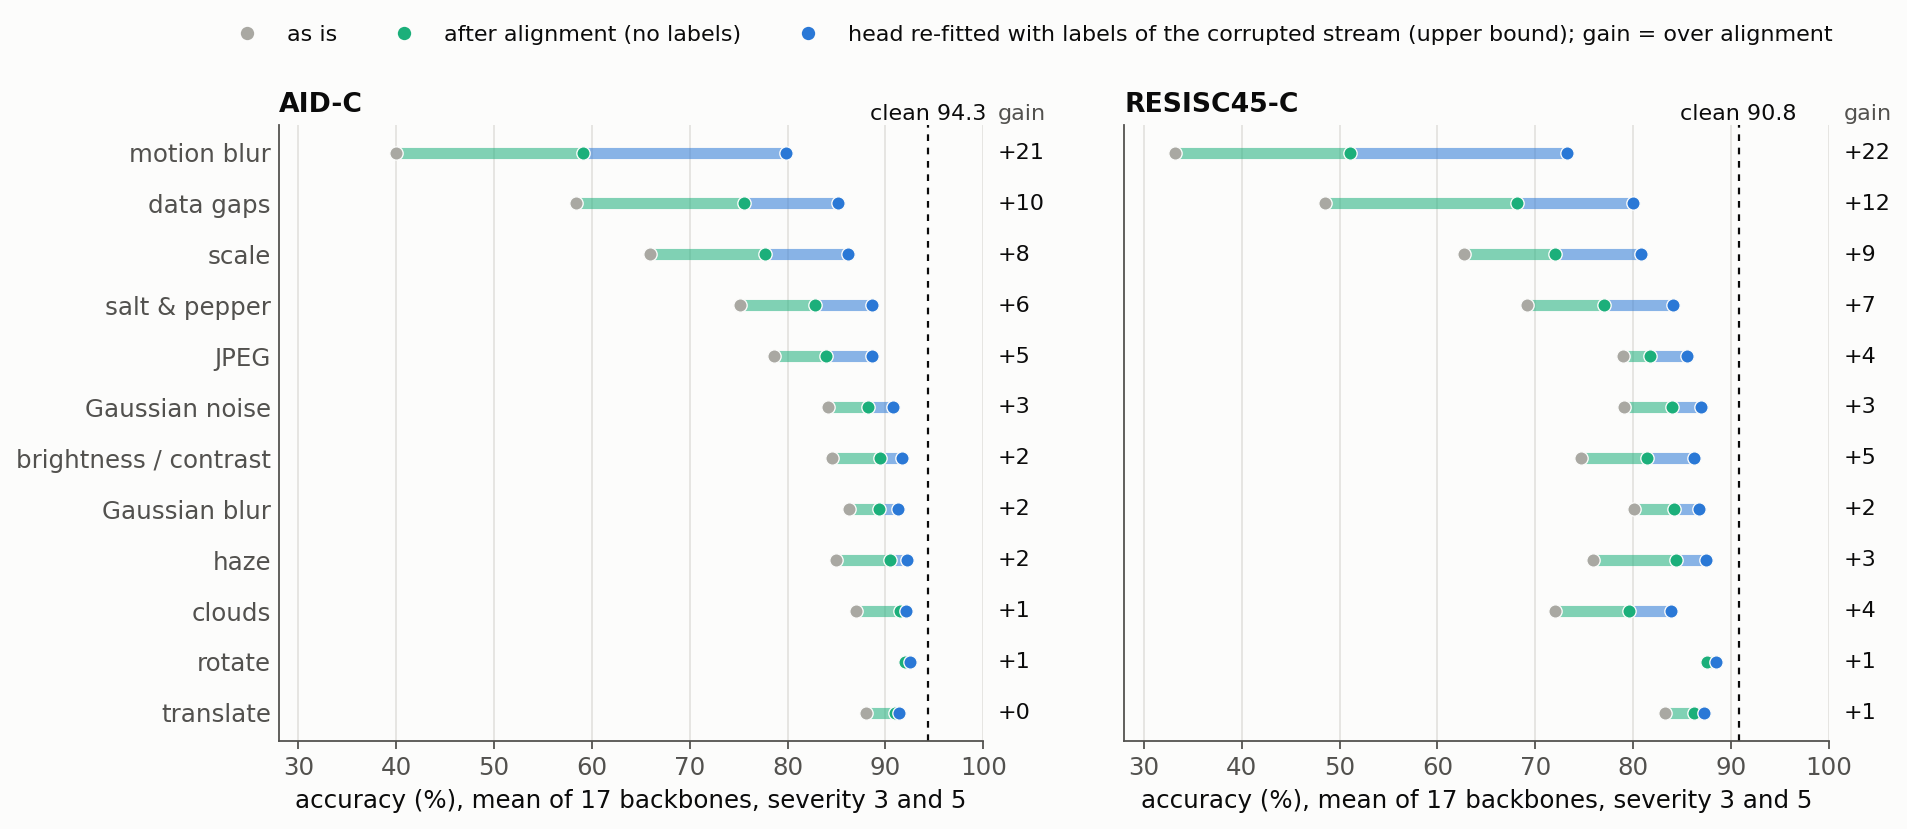
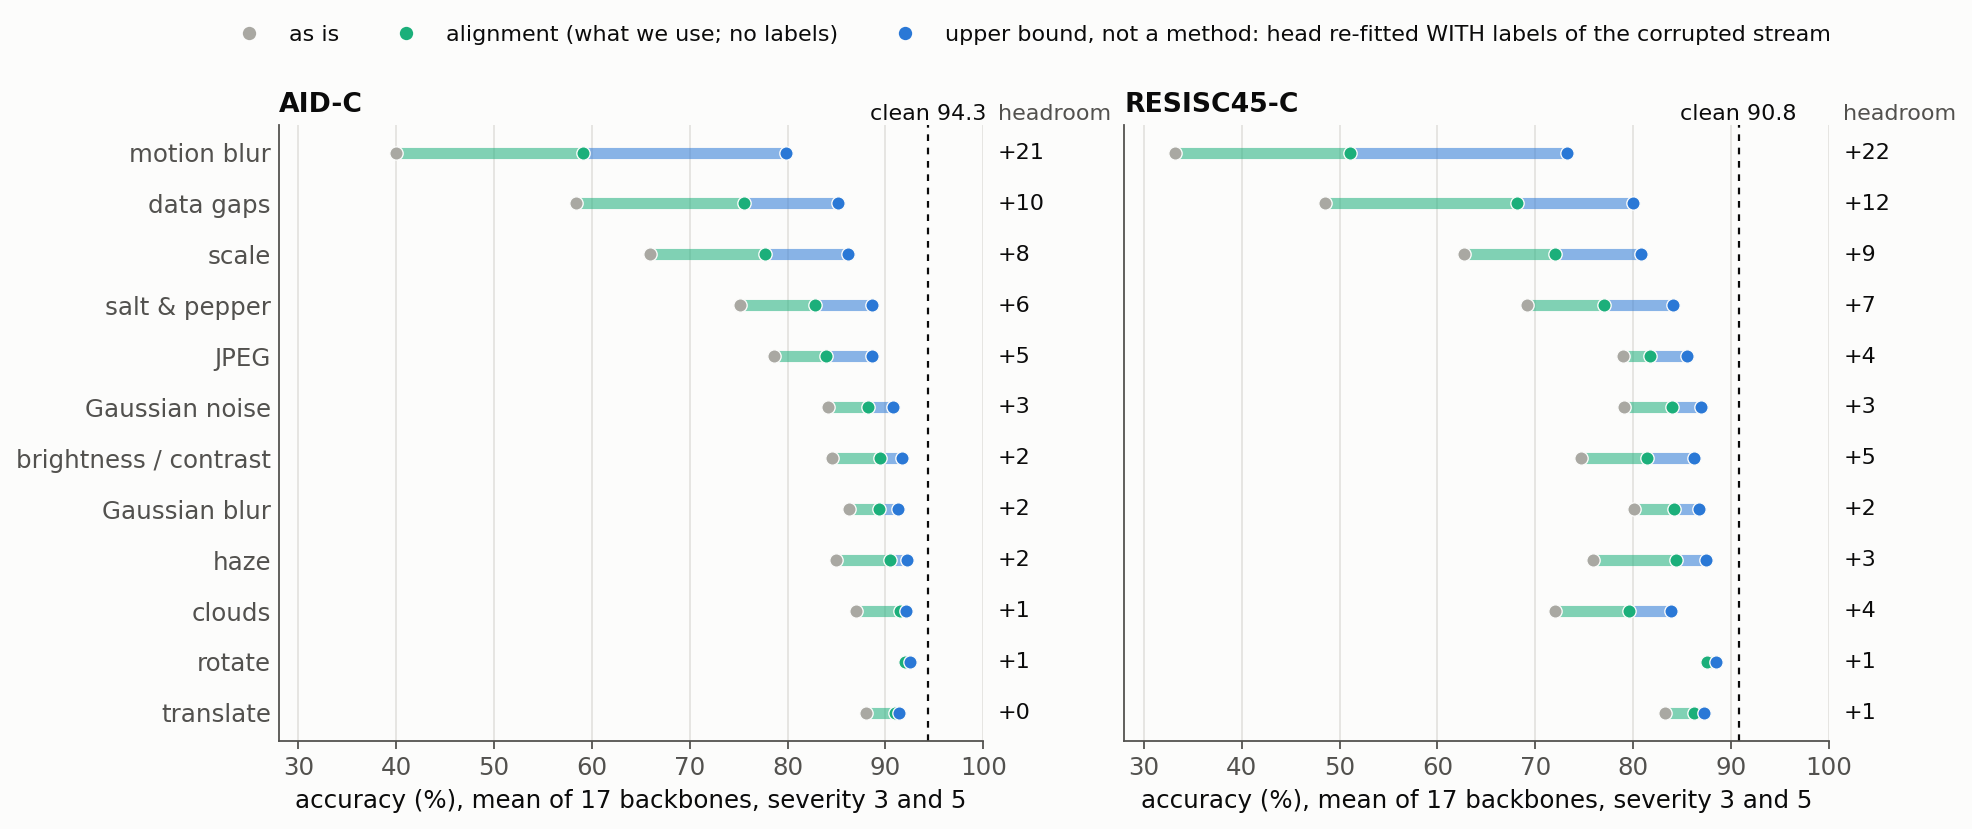
Mid-term figures: alignment explainer (fig10), clearer legend for the headroom figure

diff --git a/repro/scripts/analysis/plot_midterm_figs.py b/repro/scripts/analysis/plot_midterm_figs.py
@@ -9,6 +9,7 @@
   fig7_blur_aug.png       : drop under Gaussian blur, backbones with / without blur augmentation (T7)
   fig8_corruptions.png    : one AID image under the 12 REOBench corruptions, grouped by acquisition stage (T6)
   fig9_seg.png            : Potsdam mIoU per corruption for none / BN / input / input + BN alignment (T5)
+  fig10_alignment.png     : what head-input alignment does: pipeline, one feature channel, prediction share per class
 Labels are in English (no Korean font on the server). Colours: dataviz reference palette, light surface.
 
   /opt/conda/envs/segtta/bin/python scripts/analysis/plot_midterm_figs.py [--only fig1 fig5 ...]     # from repro/
@@ -183,13 +184,13 @@ def fig5():
             ax.scatter([ft], [y], s=36, color=BLUE, edgecolors=SURF, linewidths=0.6, zorder=3)
             ax.text(101.5, y, f"+{ft - al:.0f}", va="center", ha="left", fontsize=10, color=INK, clip_on=False)
         ax.axvline(clean, color=INK, lw=1, ls=(0, (3, 3))); ax.text(clean, len(order) - 0.35, f"clean {clean:.1f}", ha="center", fontsize=10)
-        ax.text(101.5, len(order) - 0.35, "gain", ha="left", fontsize=10, color=INK2, clip_on=False)
+        ax.text(101.5, len(order) - 0.35, "headroom", ha="left", fontsize=10, color=INK2, clip_on=False)
         ax.set_yticks(range(len(order))); ax.set_yticklabels([SHORT[c] for c in order]); ax.tick_params(axis="y", length=0)
         ax.set_xlim(28, 100); ax.set_xlabel("accuracy (%), mean of 17 backbones, severity 3 and 5"); ax.set_title(title, loc="left")
         ax.grid(axis="x", color=GRID, lw=0.8); ax.set_axisbelow(True)
     hs = [plt.Line2D([], [], marker="o", ls="", ms=7, mfc=GREY, mec=SURF, label="as is"),
-          plt.Line2D([], [], marker="o", ls="", ms=7, mfc=AQUA, mec=SURF, label="after alignment (no labels)"),
-          plt.Line2D([], [], marker="o", ls="", ms=7, mfc=BLUE, mec=SURF, label="head re-fitted with labels of the corrupted stream (upper bound); gain = over alignment")]
+          plt.Line2D([], [], marker="o", ls="", ms=7, mfc=AQUA, mec=SURF, label="alignment (what we use; no labels)"),
+          plt.Line2D([], [], marker="o", ls="", ms=7, mfc=BLUE, mec=SURF, label="upper bound, not a method: head re-fitted WITH labels of the corrupted stream")]
     fig.legend(handles=hs, loc="upper center", ncol=3, bbox_to_anchor=(0.5, 1.03), fontsize=10)
     save(fig, "fig5_headroom.png")
 
@@ -286,13 +287,90 @@ def fig9():
     save(fig, "fig9_seg.png")
 
 
+def fig10(model="mae_in", ds="aid"):
+    """What head-input alignment does: schematic + one real stream (the severity-3 corruption with the largest gain)."""
+    import torch
+    from matplotlib.patches import FancyBboxPatch
+    sys.path.insert(0, os.path.dirname(os.path.abspath(__file__)))
+    from cluster_cot import FEATS, align
+    h = torch.load(f"{FEATS}/{model}/head_{ds}.pt"); te = torch.load(f"{FEATS}/{model}/{ds}_test.pt"); cd = torch.load(f"{FEATS}/{model}/{ds}_c.pt")
+    z = lambda a: (a.float() - h["mu"]) / h["sd"]
+    w, b = h["w"], h["b"]
+    pred = lambda x: (x @ w + b).argmax(1)
+    zc, yc = z(te["feats"]), te["y"]
+    best = None
+    for k, c in enumerate(common.NOISES):
+        sel = (cd["corr"] == k) & (cd["sev"] == 3)
+        zk, yk = z(cd["feats"][sel]), cd["y"][sel]
+        za = align(zk)
+        a0, a1 = 100 * (pred(zk) == yk).float().mean().item(), 100 * (pred(za) == yk).float().mean().item()
+        if best is None or a1 - a0 > best[0]:
+            best = (a1 - a0, c, zk, za, yk, a0, a1)
+    _, cname, zk, za, yk, a0, a1 = best
+    ac = 100 * (pred(zc) == yc).float().mean().item()
+    nc = w.shape[1]
+    fig = plt.figure(figsize=(13.5, 8.2))
+    gs = fig.add_gridspec(2, 2, height_ratios=[1.0, 1.25], hspace=0.32, wspace=0.2)
+    ax = fig.add_subplot(gs[0, :]); ax.set_xlim(-1, 101); ax.set_ylim(0, 42); ax.axis("off")
+
+    def box(x, y, wd, text, fc, ec=INK2, bold=False, tc=INK):
+        ax.add_patch(FancyBboxPatch((x, y), wd, 7.5, boxstyle="round,pad=0.25,rounding_size=1.2", fc=fc, ec=ec, lw=1.1))
+        ax.text(x + wd / 2, y + 3.75, text, ha="center", va="center", fontsize=10.5, color=tc, fontweight="bold" if bold else "normal")
+
+    def arrow(x0, x1, y):
+        ax.annotate("", xy=(x1, y + 3.75), xytext=(x0, y + 3.75), arrowprops=dict(arrowstyle="-|>", color=INK2, lw=1.1))
+
+    for y, tag, mid, fc, ec in ((28, "as trained and used without adaptation", "z = (h - mean_src) / std_src", "#eceae5", INK2),
+                                (9, "test time, aligned (ours)", "z = (h - mean_batch) / std_batch", "#dbe9fb", BLUE)):
+        ax.text(0, y + 10.2, tag, fontsize=11, fontweight="bold", color=INK, va="bottom")
+        box(0, y, 13, "image", SURF); arrow(13.8, 17.2, y)
+        box(18, y, 19, "frozen backbone", "#eceae5"); arrow(37.8, 41.2, y)
+        ax.text(39.5, y + 6.2, "h", ha="center", fontsize=10.5, style="italic")
+        box(42, y, 30, mid, fc, ec=ec, bold=True); arrow(72.8, 76.2, y)
+        box(77, y, 13, "linear head", "#eceae5"); arrow(90.8, 94.2, y)
+        ax.text(95, y + 3.75, "class", ha="left", va="center", fontsize=10.5)
+    ax.text(57, 25.6, "mean / std of the clean training set, per channel (fixed)", ha="center", va="top", fontsize=9.5, color=INK2)
+    ax.text(57, 6.2, "mean / std of the current test batch (64 images), per channel", ha="center", va="top", fontsize=9.5, color=BLUE)
+    ax.text(57, 2.6, "no labels, no gradient step, nothing stored between batches", ha="center", va="top", fontsize=9.5, color=BLUE)
+
+    # one channel: the largest mean shift among channels with an ordinary source spread
+    ok = h["sd"] >= 0.5 * h["sd"].median()
+    j = int((zk.mean(0).abs() * ok).argmax())
+    ax1 = fig.add_subplot(gs[1, 0])
+    lo, hi = np.percentile(torch.cat([zc[:, j], zk[:, j], za[:, j]]).numpy(), [0.5, 99.5])
+    bins = np.linspace(lo, hi, 60)
+    ax1.hist(zc[:, j].numpy(), bins=bins, color=GREY, alpha=0.55, label=f"clean (accuracy {ac:.1f}%)")
+    ax1.hist(zk[:, j].numpy(), bins=bins, histtype="step", color=ORANGE, lw=2, label=f"{SHORT[cname]}, severity 3 ({a0:.1f}%)")
+    ax1.hist(za[:, j].numpy(), bins=bins, histtype="step", color=BLUE, lw=2, label=f"same stream, aligned ({a1:.1f}%)")
+    ax1.axvline(0, color=INK2, lw=0.8, ls=(0, (3, 3)))
+    ax1.set_xlabel("value of one feature channel (source std units; 0 = source mean)"); ax1.set_ylabel("images")
+    ax1.set_title(f"{model}, {ds.upper()}: the channel with the largest shift", loc="left", fontsize=11)
+    ax1.legend(loc="upper right", fontsize=9.5)
+    # prediction share per class
+    ax2 = fig.add_subplot(gs[1, 1])
+    share = lambda p: np.bincount(p.numpy(), minlength=nc) / len(p) * 100
+    sk, sa, st = share(pred(zk)), share(pred(za)), share(yk)
+    o = np.argsort(-sk); x = np.arange(nc)
+    ax2.bar(x, st[o], width=0.8, color=GREY, alpha=0.55, label="true share")
+    ax2.plot(x, sk[o], color=ORANGE, lw=2, marker="o", ms=4, label="predicted, corrupted")
+    ax2.plot(x, sa[o], color=BLUE, lw=2, marker="o", ms=4, label="predicted, aligned")
+    names = sorted(os.listdir(common.TRAIN_DIR))
+    ax2.annotate(f"{names[o[0]]}: {sk[o[0]]:.0f}% of predictions", xy=(0, sk[o[0]]), xytext=(4, sk[o[0]] * 0.92), fontsize=10,
+                 arrowprops=dict(arrowstyle="-", color=INK2, lw=0.8))
+    ax2.set_xlabel("classes, sorted by predicted share on the corrupted stream"); ax2.set_ylabel("share of images (%)")
+    ax2.set_xticks([]); ax2.set_title("predictions collapse to a few classes; alignment spreads them again", loc="left", fontsize=11)
+    ax2.legend(loc="upper right", fontsize=9.5)
+    save(fig, "fig10_alignment.png")
+    print(f"fig10: {model} {ds} {cname}_s3 clean {ac:.1f} corrupted {a0:.1f} aligned {a1:.1f} channel {j}")
+
+
 if __name__ == "__main__":
     ap = argparse.ArgumentParser()
     ap.add_argument("--only", nargs="*", default=None)
     args = ap.parse_args()
     OUT.mkdir(parents=True, exist_ok=True)
     for name, f in (("fig1", fig1), ("fig2", fig2), ("fig3", fig3), ("fig4", fig4), ("fig5", fig5), ("fig6", fig6), ("fig7", fig7),
-                    ("fig8", fig8), ("fig9", fig9)):
+                    ("fig8", fig8), ("fig9", fig9), ("fig10", fig10)):
         if args.only is None or name in args.only:
             try:
                 f()

diff --git a/repro/docs/WRAPUP_midterm_2026-11-26.md b/repro/docs/WRAPUP_midterm_2026-11-26.md
@@ -103,7 +103,7 @@ PPT skill에는 **3절(슬라이드 구성)과 4절(표)** 을 그대로 주면 
 | S4 | 데이터와 벤치마크 (F3) | T11 | 합성 손상 3개, 자연 shift 1개 |
 | S5 | 기존 TTA는 평균적으로 손해 | **fig1**, T1 | 엔트로피 기반은 손해, 정렬이 가장 큼 |
 | S6 | 왜 실패하나: 과신과 예측 쏠림 | **fig4**, T2, T9 | 과신은 3종 손상에 몰려 있고 예측 클래스가 합쳐진다 |
-| S7 | 통계 정렬이 하는 일 | 식 한 줄, head 통제 결과 | head 입력을 test 배치 통계로 다시 표준화 |
+| S7 | 통계 정렬이 하는 일 | **fig10**, 식 한 줄, head 통제 결과 | head 입력을 test 배치 통계로 다시 표준화 |
 | S8 | flip 신호와 정확도 추정 | **fig3**, **fig2**, T3 | flip은 정확도를 따르고, 추정 오차는 COT와 같은 수준 |
 | S9 | 자연 shift | T4 | 신호는 유지, 정렬은 약함 |
 | S10 | 분할 (Potsdam) | **fig9**, T5 | 분류와 같은 현상 |
@@ -125,11 +125,12 @@ PPT skill에는 **3절(슬라이드 구성)과 4절(표)** 을 그대로 주면 
 | `fig2_estimation.png` | 추정 정확도 대 실제 정확도, stream 2,040개. ATC / COT / flip 추정 | ATC는 대각선 위로 크게 벗어난다(과신). COT와 flip 추정은 대각선을 따른다 |
 | `fig3_signals.png` | RESISC45-C에서 confidence 대 정확도, flip 대 정확도. 백본 3개 | 과신 백본(moco_in, sup_in_r50)에서 confidence는 정확도를 못 따르고 flip은 따른다 |
 | `fig4_em_phases.png` | 2,000 step 동안의 정확도와 예측 클래스 수. tent 대 DSBR | tent는 클래스가 합쳐지며 떨어지고 DSBR은 30개를 유지하며 오른다 |
-| `fig5_headroom.png` | 손상별로 그대로 → 정렬 → head 상한 → clean | 남은 여지는 motion blur, data gaps, scale에 몰려 있다 |
+| `fig5_headroom.png` | 손상별로 그대로(회색) → 정렬(초록, 우리가 실제로 쓰는 것, 라벨 없음) → head 상한(파랑, 손상 stream의 라벨로 head를 다시 맞춘 가상의 값, 방법이 아님) → clean(점선) | 남은 여지는 motion blur, data gaps, scale에 몰려 있다 |
 | `fig6_pairs.png` | 쌍 7개의 위성 − 일반 차이. clean, 손상, 자연 shift 양방향 | 위성 사전학습의 효과는 방식마다 반대다 |
 | `fig7_blur_aug.png` | Gaussian blur 손상에서의 하락. blur augmentation 유무로 묶음 | 두 묶음의 범위가 겹치지 않는다 |
 | `fig8_corruptions.png` | AID 이미지 한 장에 12종 손상(3단계), 단계별 표기 | 굵은 이름이 RS 고유 유형 |
 | `fig9_seg.png` | Potsdam 손상별 mIoU. none / BN 정렬 / 입력 정렬 / 둘 다 | 밝기·haze는 입력 정렬, 노이즈·JPEG는 BN 정렬이 듣고, blur와 구름은 아무것도 안 듣는다 |
+| `fig10_alignment.png` | 정렬이 하는 일: 흐름도(학습 때의 표준화 대 test 배치 통계로 표준화), feature 채널 하나의 분포, 클래스별 예측 비율. mae_in, AID, scale 3단계 | 손상이 feature를 한쪽으로 통째로 밀고(주황) 정렬이 제자리로 되돌린다(파랑). 예측이 한 클래스에 58% 쏠리던 것이 다시 퍼진다. 정확도 23.0 → 64.5 (clean 94.3) |
 
 fig6에는 MAE → Scale-MAE 쌍을 넣어 7개다. DINOv3의 AID-C 값은 반올림 전 계산이라 −14.4로 찍힌다(표 T10은 −14.3).
 
@@ -365,5 +366,5 @@ Geometry에서 이해해야 할 것은 세 문장이다.
 
 ## 8. 로컬로 가져갈 것
 - 이 파일과 그림은 모두 저장소에 commit돼 있다. `repro` 브랜치를 push한 뒤 로컬에서 받으면 된다.
-- 그림: `docs/figs/midterm_2026-11-26/` 9장(발표용), `docs/figs/2026-11-24_feature_dist/` 2장, `docs/figs/meeting_2026-10/` 7장.
+- 그림: `docs/figs/midterm_2026-11-26/` 10장(발표용), `docs/figs/2026-11-24_feature_dist/` 2장, `docs/figs/meeting_2026-10/` 7장.
 - PPT skill에 줄 입력: 3절(슬라이드 구성) + 4절의 표 중 해당 번호 + 7절의 한계. 슬라이드마다 "한 줄 메시지"를 제목 아래 문장으로 쓰면 된다.
